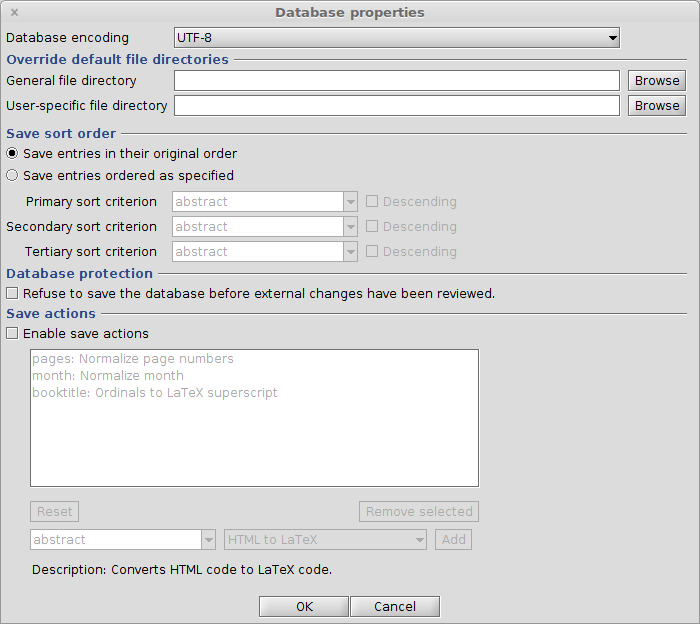
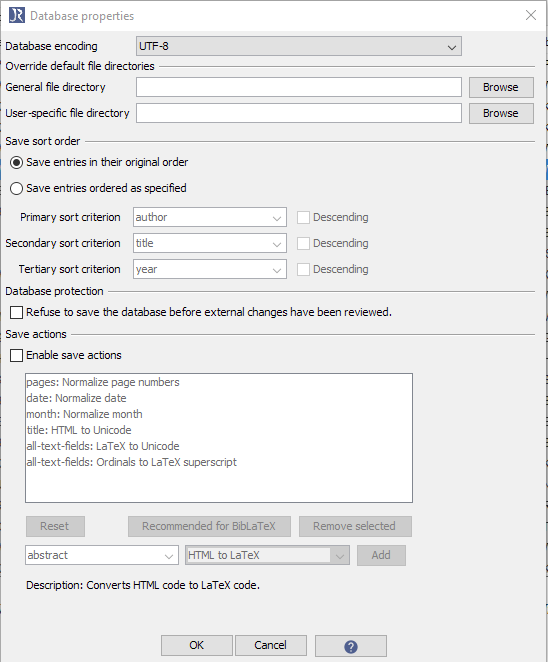
Add help for CleanUp and SaveActions
- Update DatabaseProperties.png
 - Move help of SaveActions to SaveActions.md (refs #8)

Changed region(s): [[0.0, 0.0, 1.0, 1.0]]

diff --git a/en/SaveActions.md b/en/SaveActions.md
@@ -1,0 +1,18 @@
+---
+title: Save actions
+helpCategories: ["Finding, sorting and cleaning entries"]
+stub: true
+---
+
+# Save actions
+
+Field formatting can be tidied up when saving the database.
+That ensures your entries to have consistent formatting.
+If you check **Enable save actions** in the [Database Properties](DatabaseProperties), the list of actions can be configured.
+
+Each action is defined by:
+- an entry field (upon which the action will be applied).
+- the type of action to be carried out (such as *HTML to LaTeX*, which converts HTML code to LaTeX code, as described in the window).
+
+Dependend on the database mode, "Recommended for BibTeX" or "Recommended for BibLaTeX".
+When pressing this button, the recommended cleanups for the respective mode is called.

diff --git a/en/DatabaseProperties.md b/en/DatabaseProperties.md
@@ -63,9 +63,9 @@ users will only be able to save the database after any external changes have bee
 
 Field formatting can be tidied up when saving the database. That ensures your entries to have consistent formatting.
 If you check **Enable save actions**, the list of actions can be configured.
-Each action is defined by:
-- an entry field (upon which the action will be applied).
-- the type of action to be carried out (such as *HTML to LaTeX*, which converts HTML code to LaTeX code, as described in the window).
+
+For more information see [SaveActions].
+
 
 ## Shared SQL database
 

diff --git a/en/CleanupEntries.md b/en/CleanupEntries.md
@@ -9,3 +9,9 @@ stub: true
 JabRef can cleanup the entries of a database.
 
 To carry a cleanup of the entries, go to **Quality -&gt; Cleanup entries...**.
+
+![Screenshot for Cleanup Entries](./images/CleanupEntries.png)
+
+In the lower part, you can choose "Run field formatter", where you can choose different [Save Actions](SaveActions).
+Dependend on the database mode, "Recommended for BibTeX" or "Recommended for BibLaTeX".
+When pressing this button, the recommended cleanups for the respective mode is called.

diff --git a/en/index.md b/en/index.md
@@ -58,6 +58,7 @@ title: Help contents
 - [Mark entries](/en/Marking)
 - [Merge entries](/en/MergeEntries)
 - [Replace string](/en/ReplaceString)
+- [Save actions](/en/SaveActions)
 - [Searching](/en/Search)
 - [Synchronize file links](/en/SynchroFileLinks)
 
